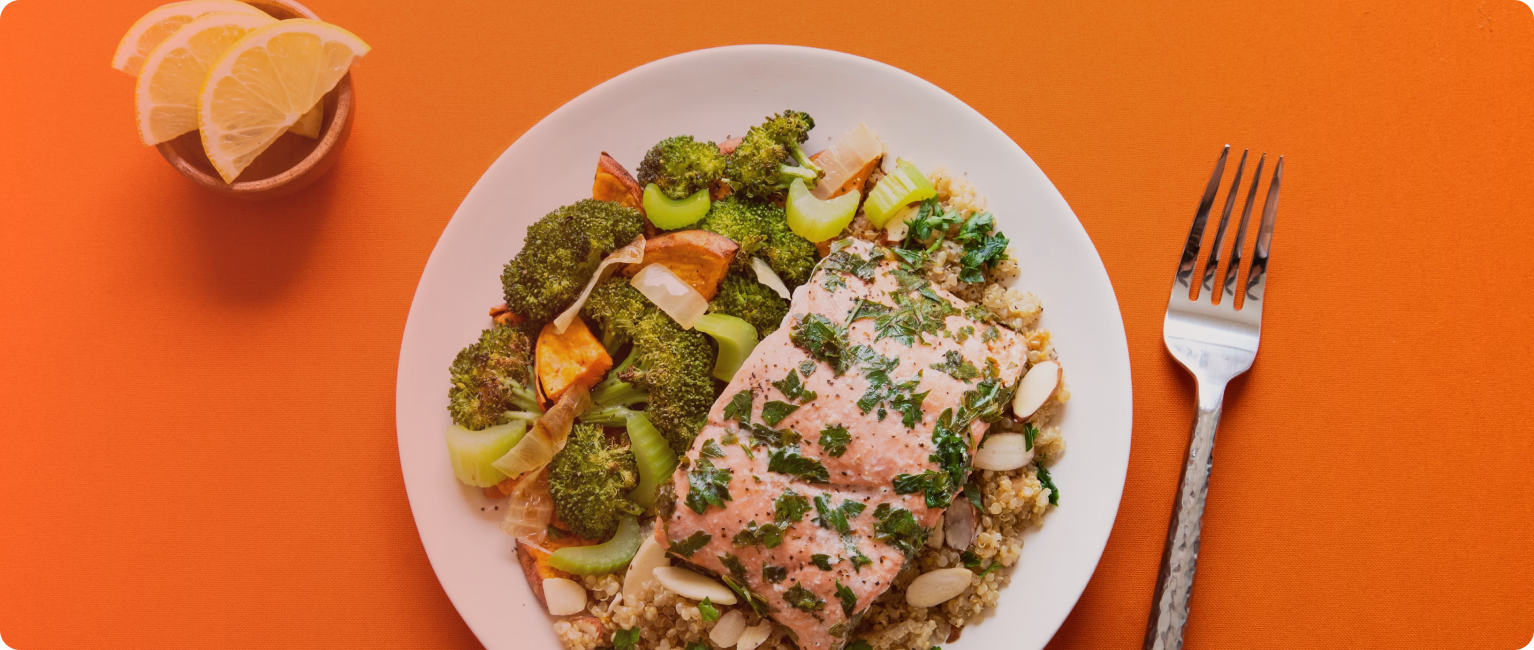
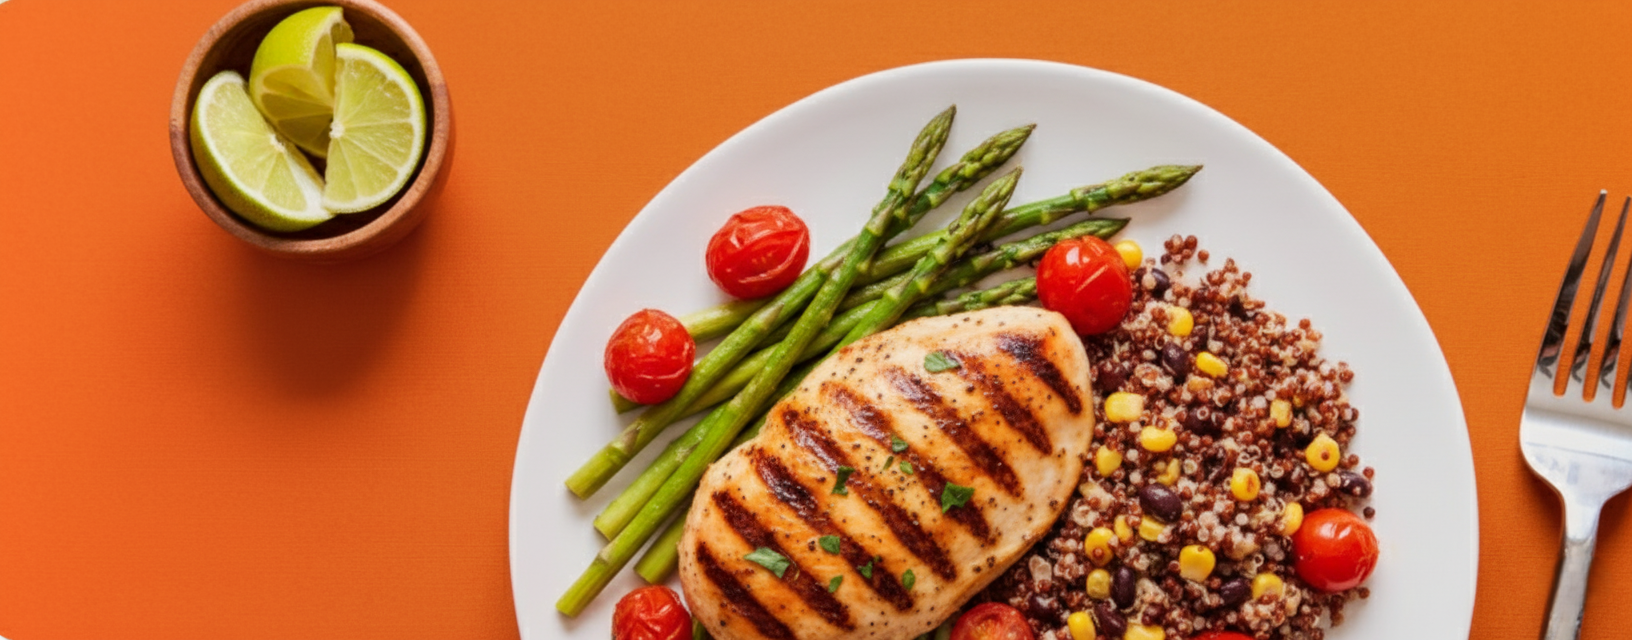
changed-api-keys

diff --git a/backend/config/db.js b/backend/config/db.js
@@ -1,14 +1,13 @@
 import mongoose from "mongoose";
+import dotenv from "dotenv";
+
+dotenv.config();
 
 export const connectDB = async () => {
-  await mongoose
-    .connect(
-      "mongodb+srv://greatstack-vijay:REDACTED_MONGO_PASSWORD@cluster0.fe3i8oz.mongodb.net/Food-Delivery-App"
-    )
-    .then(() => {
-      console.log("DB Connected");
-    })
-    .catch((err) => {
-      console.error("❌ DB Connection Failed:", err);
-    });
+  try {
+    await mongoose.connect(process.env.MONGO_URI);
+    console.log("✅ DB Connected");
+  } catch (err) {
+    console.error("❌ DB Connection Failed:", err);
+  }
 };
